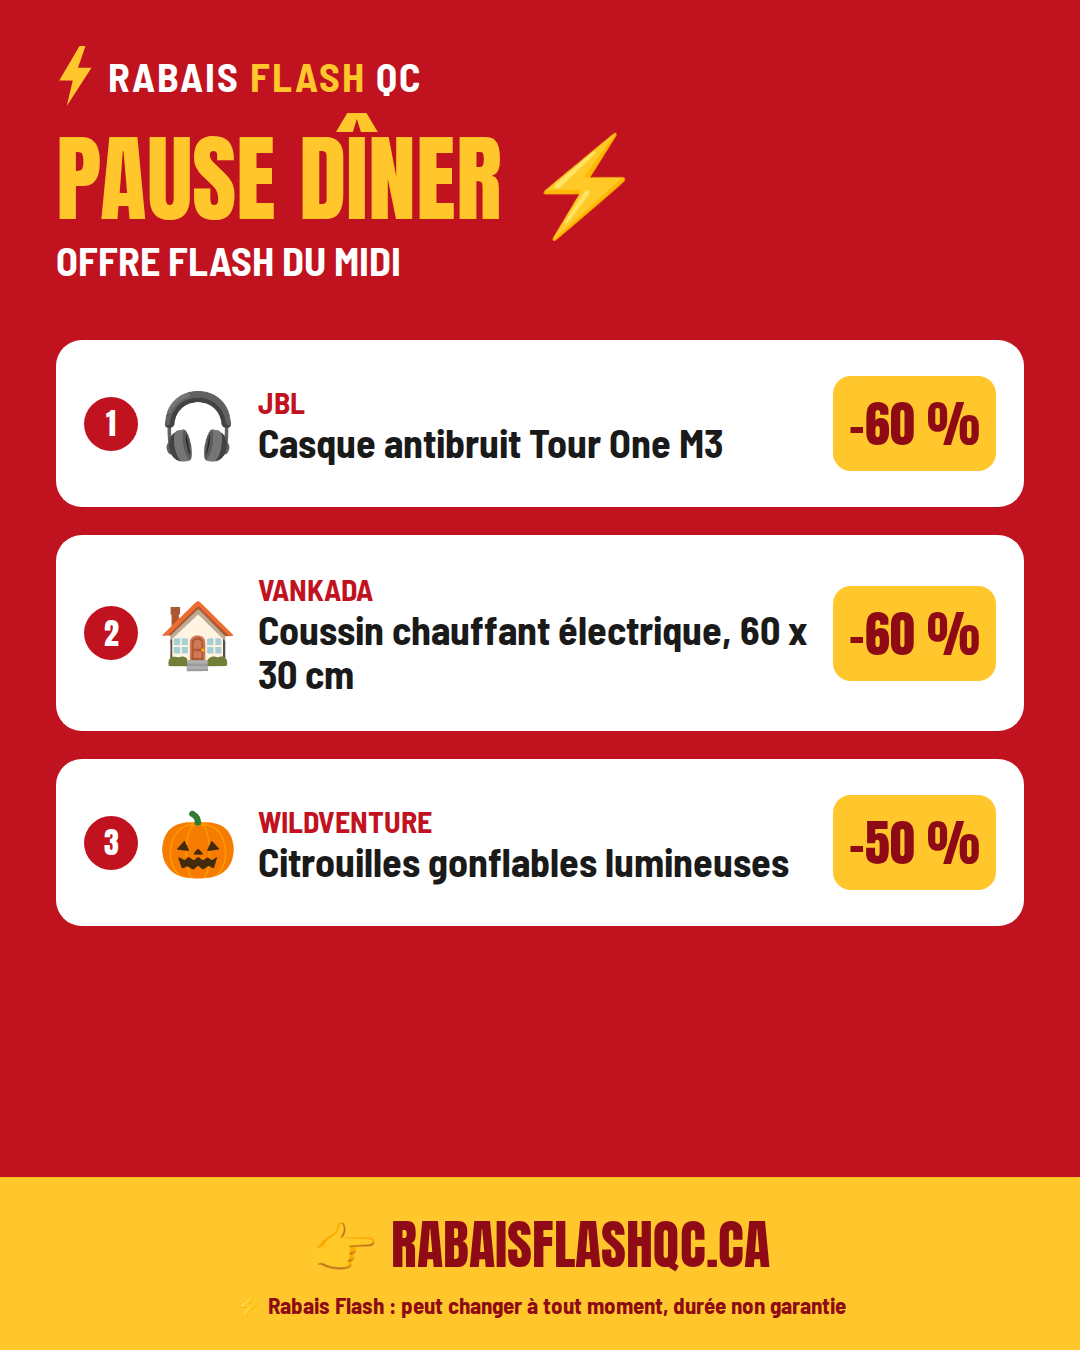
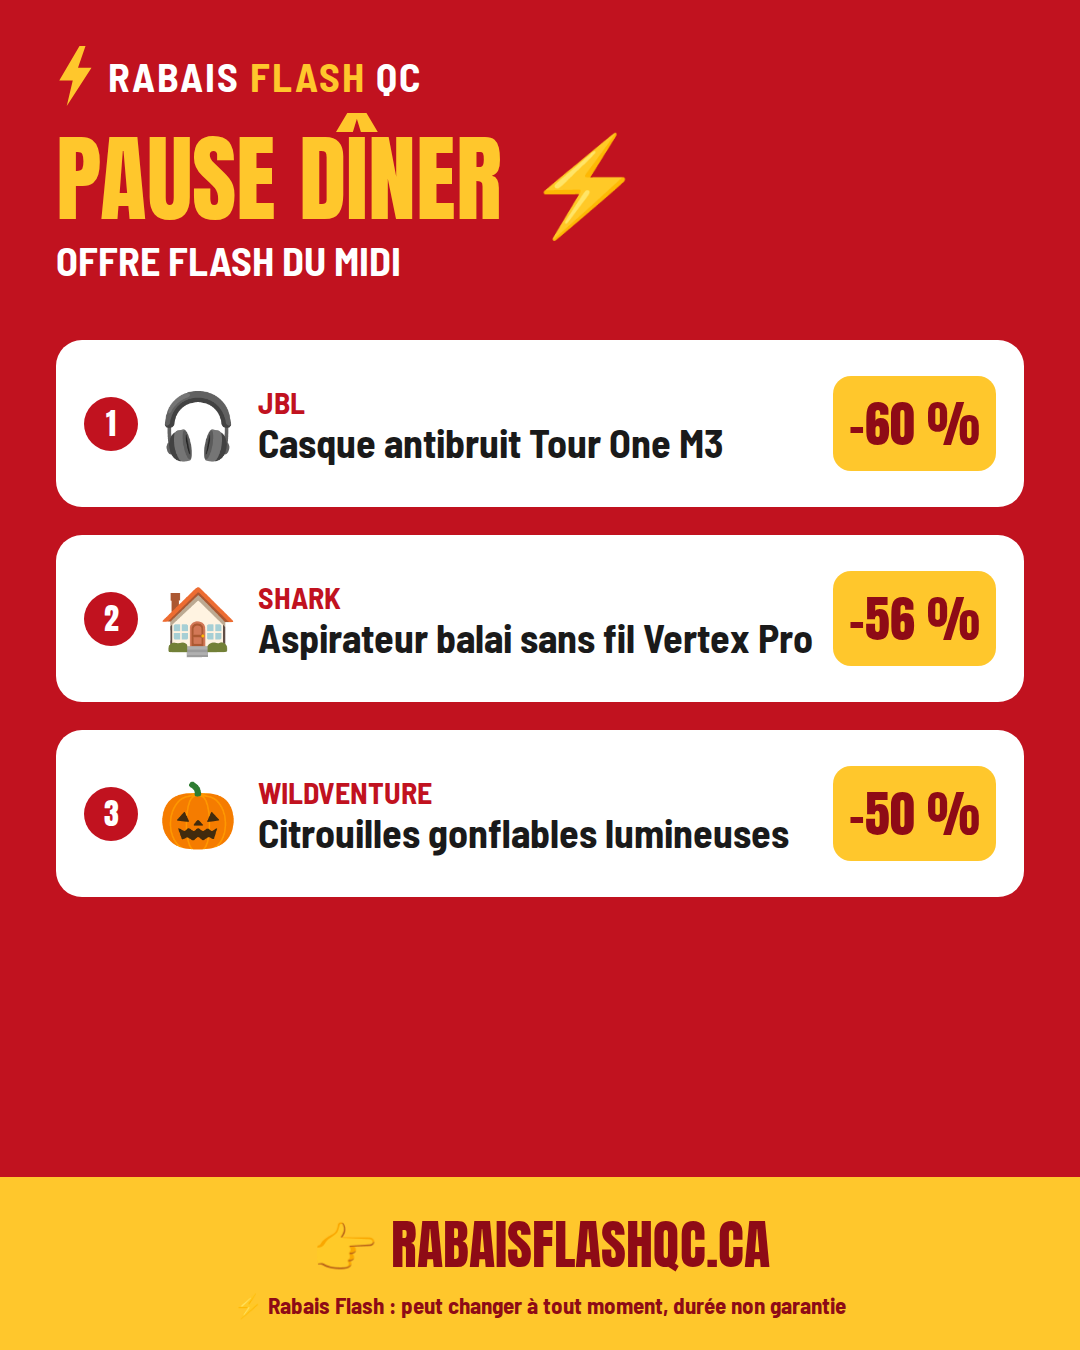
Mise à jour automatique des deals

Changed region(s): [[0.0306, 0.4044, 0.9472, 0.6844]]

diff --git a/docs/pack-du-jour/index.html b/docs/pack-du-jour/index.html
@@ -29,10 +29,10 @@ En tant que Partenaire Amazon, je réalise un bénéfice sur les achats rempliss
 #RabaisFlashQC #AubainesQuébec #DealsQC #Québec #Halloween</pre><button data-c="matin-t">📋 Copier le texte</button><h3>Premier commentaire à épingler</h3><pre id="matin-c">🔗 Tous les deals triés : https://rabaisflashqc.ca
 🎁 Guides cadeaux de Noël : https://rabaisflashqc.ca/idees-cadeaux/
 
-En tant que Partenaire Amazon, je réalise un bénéfice sur les achats remplissant les conditions requises.</pre><button data-c="matin-c">📋 Copier le commentaire</button></section><section class="c"><h2>🥪 Bonus du midi</h2><p class="m">Préparé le 2026-10-09 16:51 (heure du Québec)</p><img src="midi.png?v=202610091651" alt="Image du post"><p><a class="btn" href="midi.png?v=202610091651" download>⬇ Télécharger l'image</a></p><h3>Texte du post</h3><pre id="midi-t">😋 Pendant que ta soupe refroidit, regarde ça :
+En tant que Partenaire Amazon, je réalise un bénéfice sur les achats remplissant les conditions requises.</pre><button data-c="matin-c">📋 Copier le commentaire</button></section><section class="c"><h2>🥪 Bonus du midi</h2><p class="m">Préparé le 2026-10-10 11:56 (heure du Québec)</p><img src="midi.png?v=202610101156" alt="Image du post"><p><a class="btn" href="midi.png?v=202610101156" download>⬇ Télécharger l'image</a></p><h3>Texte du post</h3><pre id="midi-t">🕛 Midi, l&#x27;heure des bonnes affaires :
 
 🎧 JBL : Casque antibruit Tour One M3 (-60 %)
-🏠 Vankada : Coussin chauffant électrique, 60 x 30 cm (-60 %)
+🏠 Shark : Aspirateur balai sans fil Vertex Pro (-56 %)
 🎃 WildVenture : Citrouilles gonflables lumineuses (-50 %)
 
 👉 Tous les deals triés, sans chercher : https://rabaisflashqc.ca
